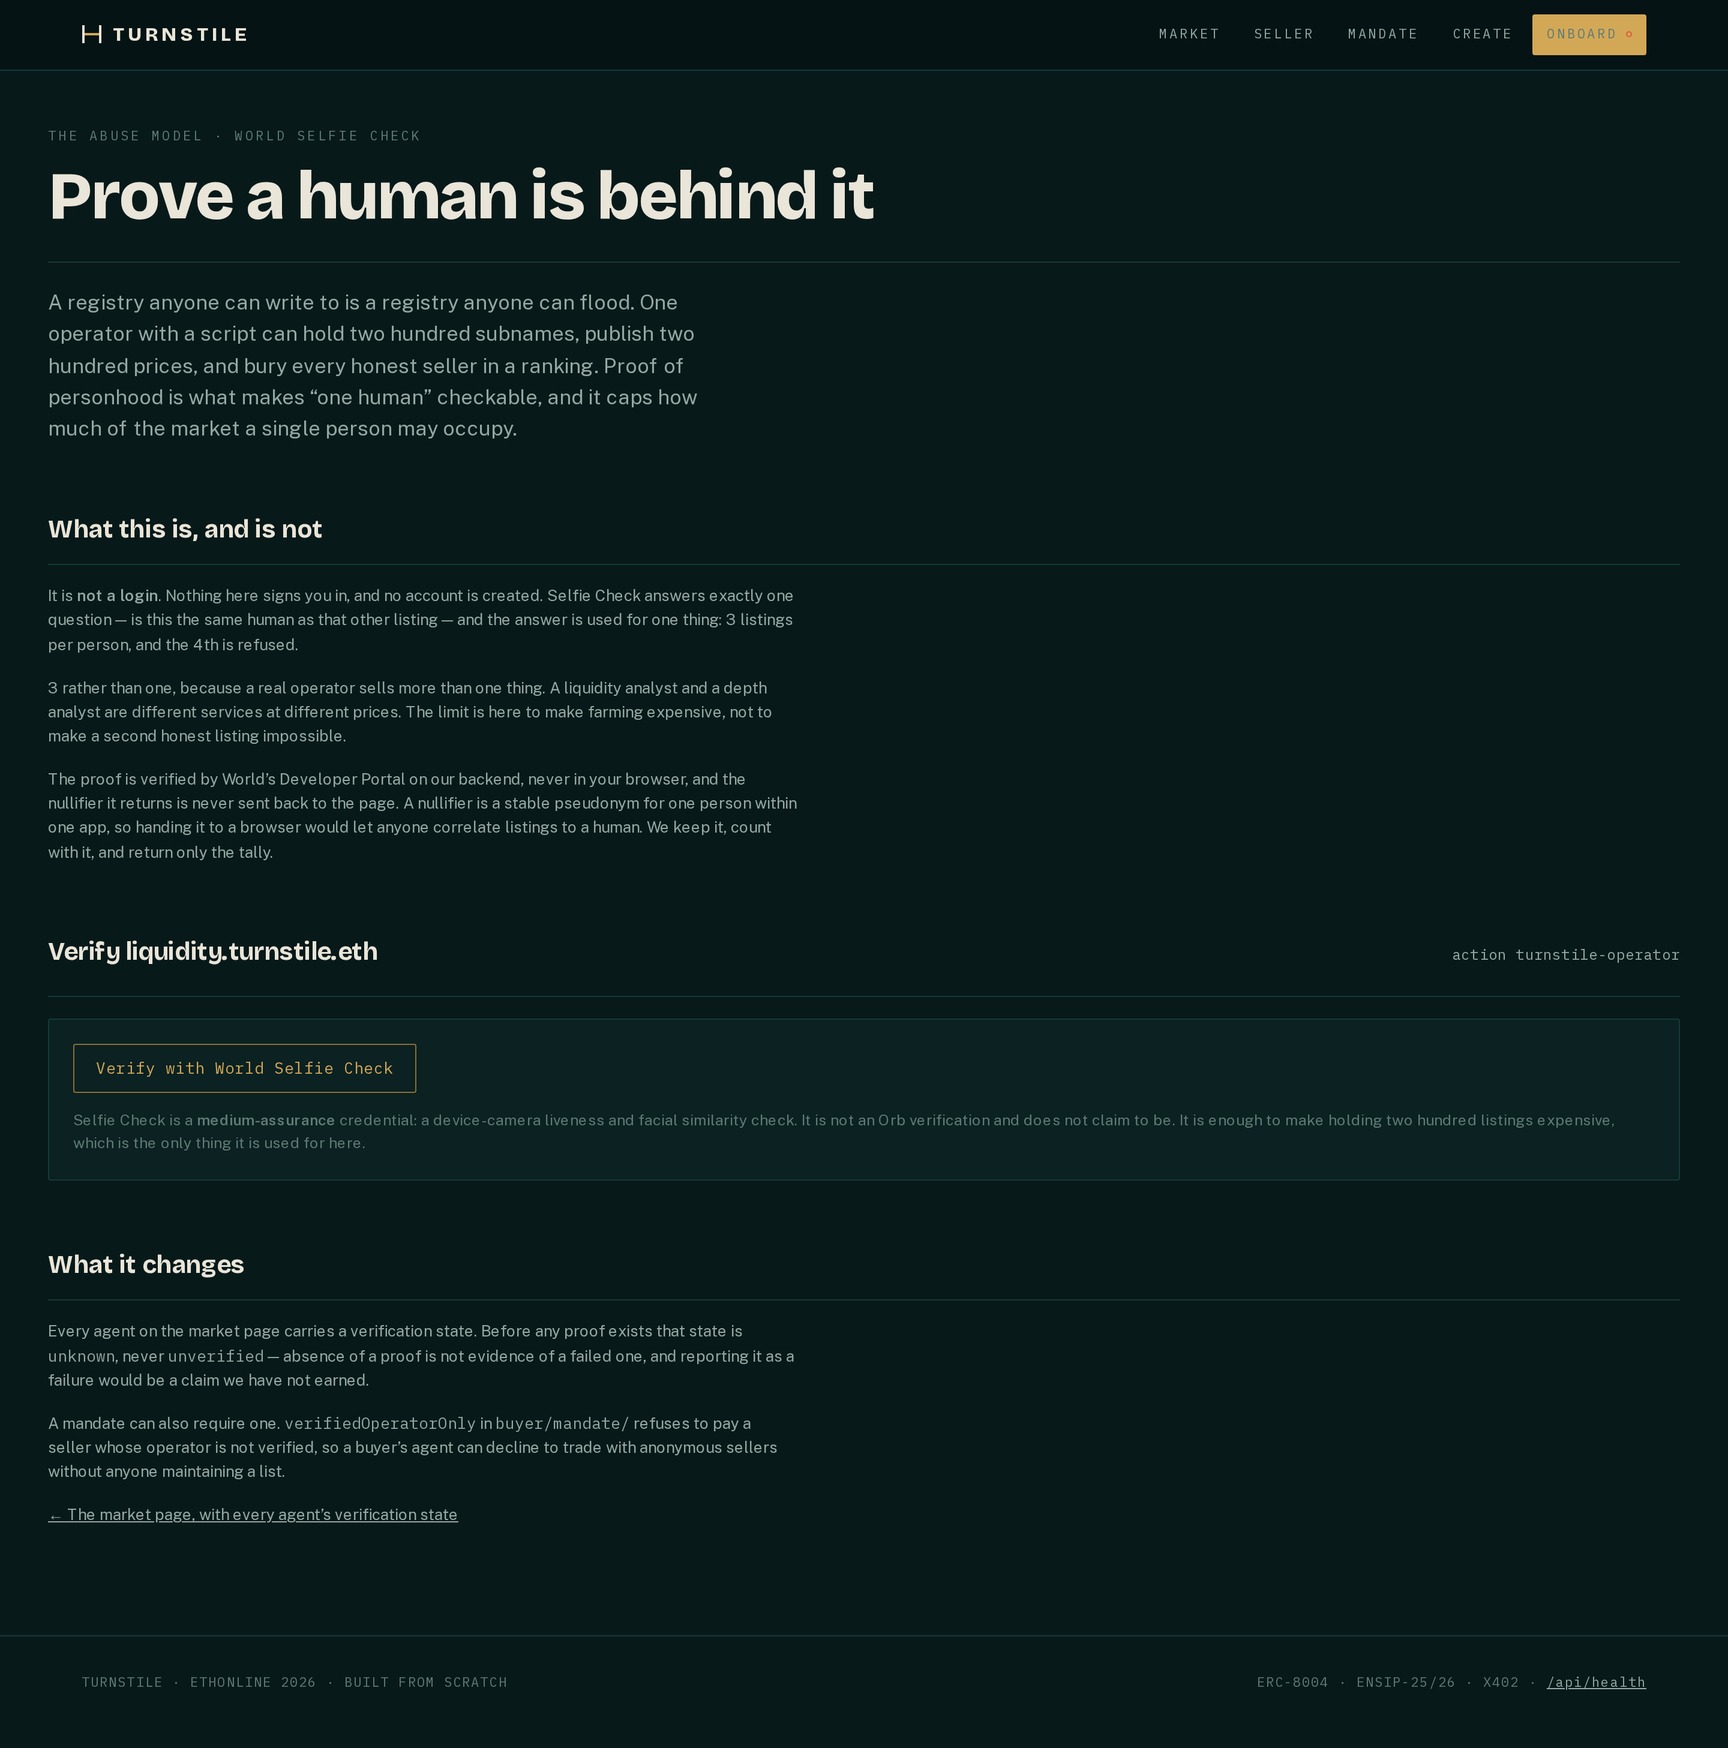
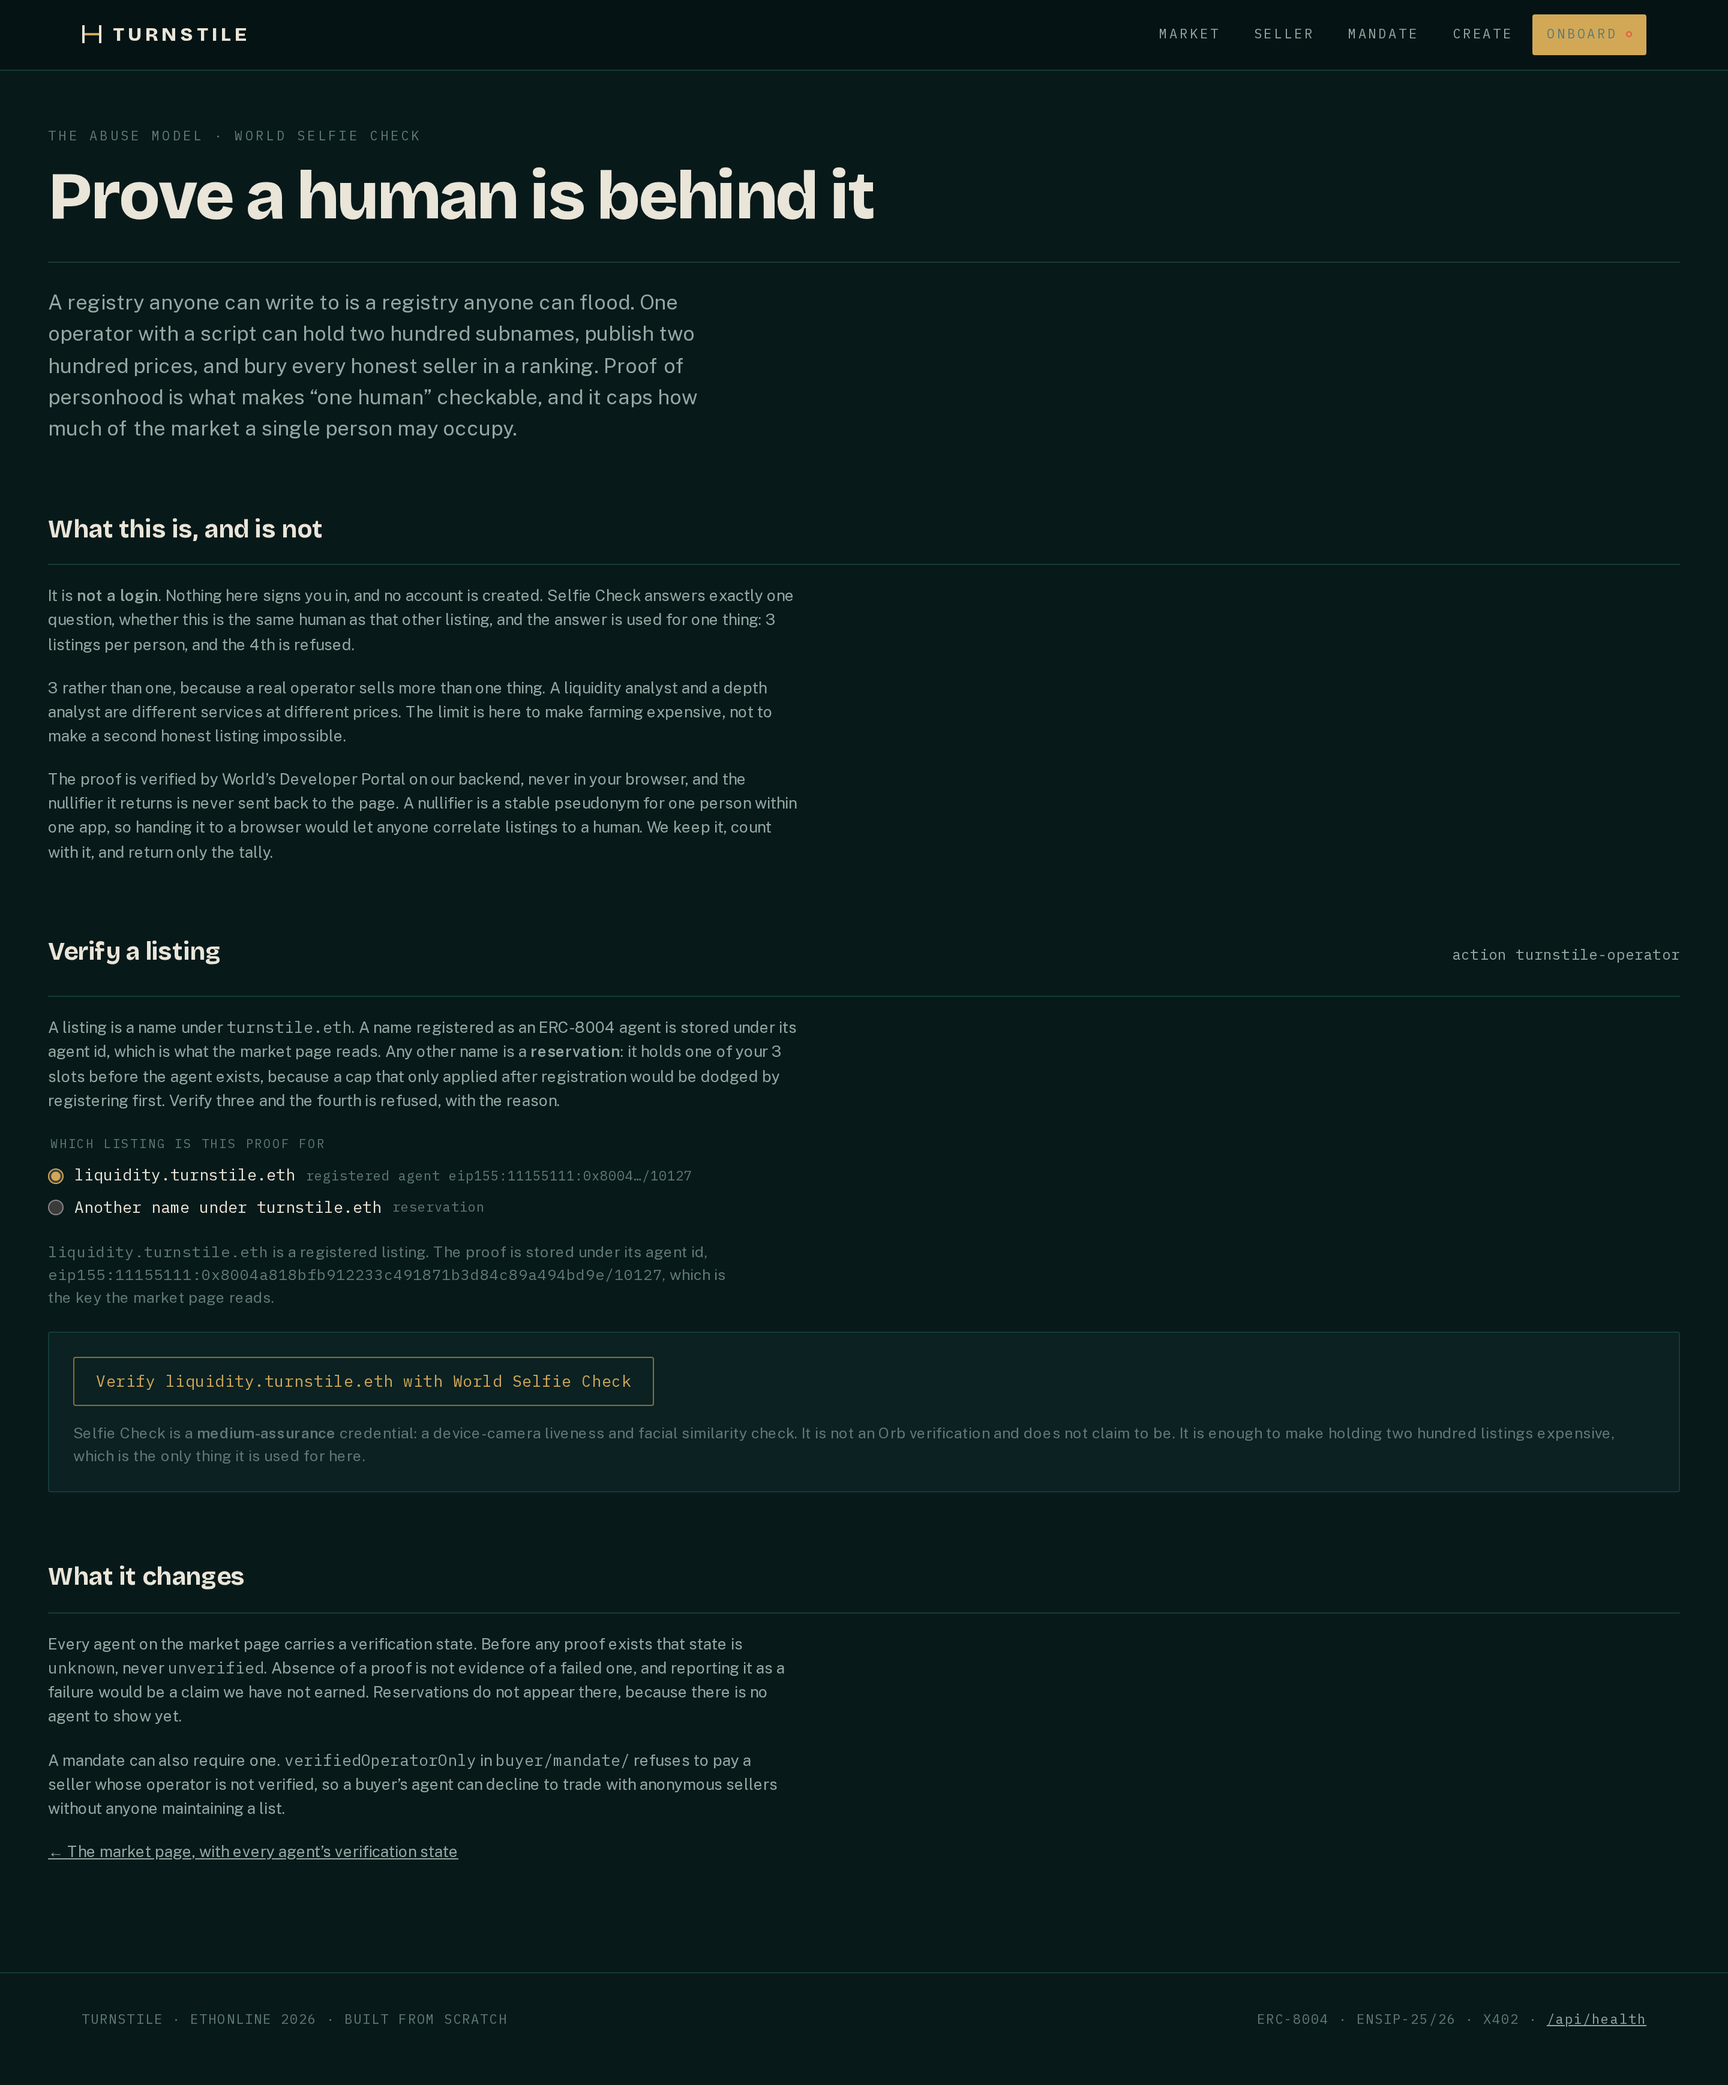
screenshots: re-capture /onboard with the listing picker
npm run capture -- onboard now re-shoots one surface. The walkthrough caption
and alt text describe the picker, with a dated update under the MOV-277
correction; EVIDENCE.md notes which image changed.

diff --git a/walkthrough/06-run-it.html b/walkthrough/06-run-it.html
@@ -161,16 +161,18 @@ $ curl -i http://localhost:4021/analyze/0x88e6a0c2ddd26feeb64f039a2c41296fcb3f56
 
     <figure class="fig fig-wide">
       <img src="../docs/screenshots/onboard.png"
-           alt="The onboard page, headed Prove a human is behind it. Sections explain that Selfie Check is not a login, that it allows three listings per person, and a Verify with World Selfie Check button described as a medium-assurance credential.">
+           alt="The onboard page, headed Prove a human is behind it. A listing picker offers liquidity.turnstile.eth as a registered agent, stored under its agent id eip155:11155111:0x8004…/10127, or another name under turnstile.eth as a reservation, above a Verify liquidity.turnstile.eth with World Selfie Check button.">
       <figcaption>
         <code>/onboard</code> &mdash; the abuse model. A registry anyone can
         write to is a registry anyone can flood, so proof of personhood caps how
         much of the market one person may occupy: three listings, and the fourth
-        is refused. The nullifier is verified on the backend and never returned
-        to the page, because a nullifier handed to a browser would let anyone
-        correlate listings to a human. The button does not work yet &mdash; see
-        below.
-        <span class="fig-date">Captured 2026-09-11 from the public deployment.</span>
+        is refused. The picker chooses which listing a proof is for: a
+        registered agent, stored under the agent id the market reads, or another
+        name under <code>turnstile.eth</code> as a reservation. The nullifier is
+        verified on the backend and never returned to the page, because a
+        nullifier handed to a browser would let anyone correlate listings to a
+        human.
+        <span class="fig-date">Re-captured 2026-09-11 from the public deployment, after MOV-277.</span>
       </figcaption>
     </figure>
 
@@ -218,6 +220,15 @@ $ curl -i http://localhost:4021/analyze/0x88e6a0c2ddd26feeb64f039a2c41296fcb3f56
       reservation, so the fourth refusal can be shown. The screenshot above
       predates the picker. What is unchanged: an agent with no proof reads
       <code>unknown</code>, never <code>unverified</code>.
+    </p>
+
+    <p>
+      <strong>Update (2026-09-11, MOV-279):</strong> the screenshot and its
+      caption above were re-captured after MOV-277 and now show the picker. The
+      re-keyed row is live: the market reports
+      <code>liquidity.turnstile.eth</code> as <code>verified</code>, read from
+      the public deployment the same day. Listings 2 to 4 and the refused fourth
+      have not yet been run through the Sandbox App on a phone.
     </p>
 
     <h2>Where the code lives</h2>

diff --git a/scripts/capture.ts b/scripts/capture.ts
@@ -99,11 +99,21 @@ const context = await browser.newContext({
 });
 const page = await context.newPage();
 
+// `npm run capture -- onboard` re-shoots one surface: after a change to one page,
+// re-capturing the other four just to refresh it invites committing rasters
+// nobody looked at.
+const only = process.argv.slice(2);
+const selected = only.length ? SHOTS.filter(s => only.some(o => s.file.startsWith(o))) : SHOTS;
+if (selected.length === 0) {
+  console.error(`no surface matches ${only.join(', ')}; have ${SHOTS.map(s => s.file).join(', ')}`);
+  process.exit(1);
+}
+
 await mkdir(OUT, { recursive: true });
-console.log(`capturing ${SHOTS.length} surfaces from ${BASE}\n`);
+console.log(`capturing ${selected.length} surfaces from ${BASE}\n`);
 
 let failed = 0;
-for (const shot of SHOTS) {
+for (const shot of selected) {
   try {
     await capture(page, shot);
   } catch (error) {
@@ -115,7 +125,7 @@ for (const shot of SHOTS) {
 await browser.close();
 
 if (failed > 0) {
-  console.error(`\n${failed} of ${SHOTS.length} failed. Nothing was written for those.`);
+  console.error(`\n${failed} of ${selected.length} failed. Nothing was written for those.`);
   process.exit(1);
 }
-console.log(`\n${SHOTS.length} written to ${OUT}/. Look at them before committing.`);
+console.log(`\n${selected.length} written to ${OUT}/. Look at them before committing.`);

diff --git a/docs/EVIDENCE.md b/docs/EVIDENCE.md
@@ -29,7 +29,11 @@ with none of the thing it exists to show.
 | Seller | `liquidity.turnstile.eth` resolved live from Sepolia, block number moving on reload | [`seller.png`](./screenshots/seller.png) |
 | Mandate | both key quorums, the policy, and 25 settled payments across two rails | [`mandate.png`](./screenshots/mandate.png) |
 | Create a mandate | operator keys generated in the browser, never sent to the server | [`mandate-new.png`](./screenshots/mandate-new.png) |
-| Onboard | Selfie Check as an abuse control, not a login | [`onboard.png`](./screenshots/onboard.png) |
+| Onboard | Selfie Check as an abuse control, not a login; the listing picker (registered agent or reservation) | [`onboard.png`](./screenshots/onboard.png) |
+
+**Update (2026-09-11, MOV-279):** `onboard.png` was re-captured from the public
+deployment after MOV-277 replaced the hard-coded listing with a picker. The other
+four images are unchanged from MOV-276.
 
 **Update (2026-09-11, MOV-273):** `seller.png` predates two changes, and shows the
 old state of both: `turnstile:operator-proof` reading `ledger-key-ring` (rewritten
